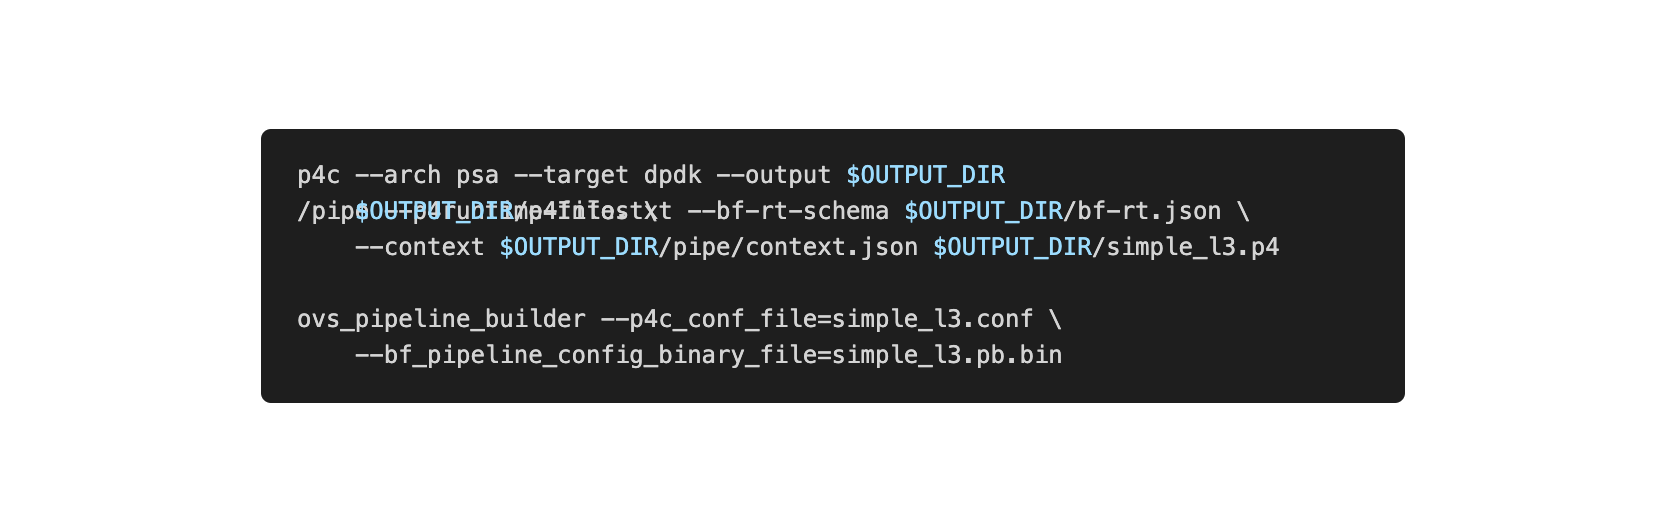
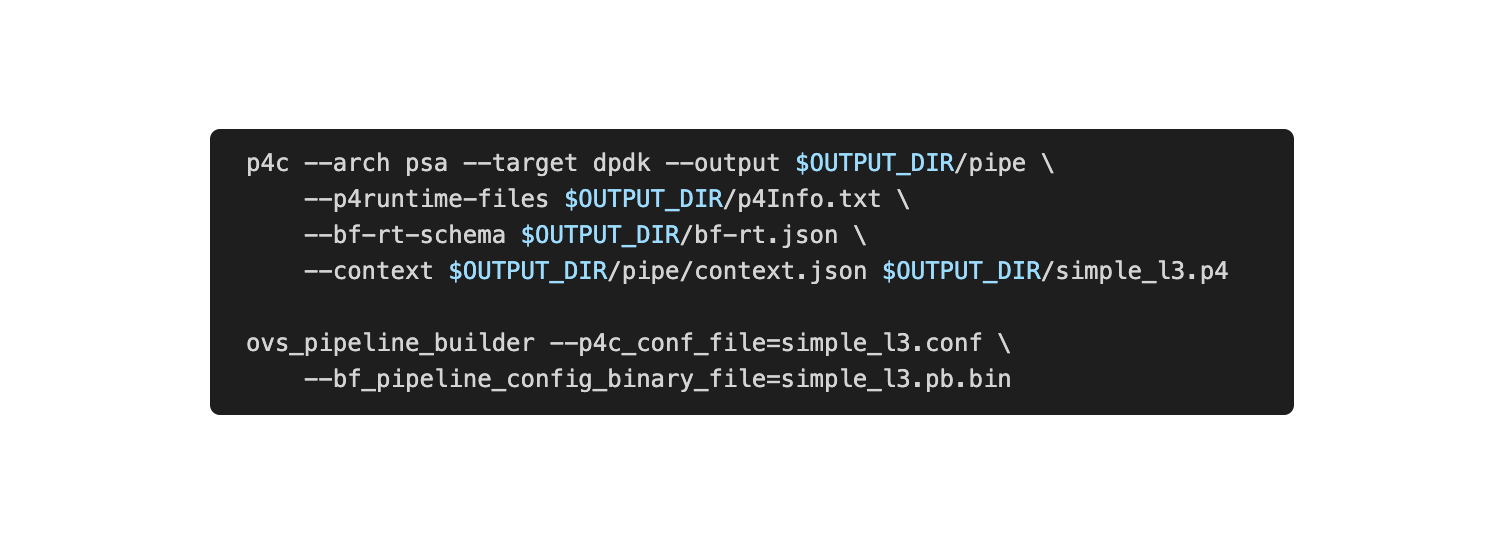
Fixed IPDK guide

Changed region(s): [[0.125, 0.2113, 0.875, 0.7849]]

diff --git a/paper/chapters/ipdk.tex b/paper/chapters/ipdk.tex
@@ -80,24 +80,28 @@ what we can see is that the port is a socket and we can specify the path where t
 The path is important because we must pass it as an argument to our VM in the last step of this demo.
 \subsubsection*{Create two virtual ports}
 \centeredimage{create_ports}{Virtual Ports creation command}
-Now that the Open vSwitch is ready to be used we can compile our program and build the pipeline into OVS.
+Now that the Open vSwitch is ready to be used we can compile our program and build the pipeline defined into the P4 program.
 Assuming that the program folder is located at \emph{/root/examples/simple\_l3} we can run the following commands:
-\centeredimage{build_pipeline}{Compile and pipeline build command}
-
+\centeredimage{build_pipeline}{Compile and build the pipeline command}
 What we've done until now is: 
 \begin{itemize}
     \item Run the Open vSwitch
     \item Create 2 different ports which the Open vSwitch listens on
-    \item Build the P4 program and the pipeline into the Open vSwitch
+    \item Build the P4 program
 \end{itemize}
-The last step is creating two virtual machines and attaching them to the virtual ports.
+\subsubsection*{Create VMs}
+In this step, we will create two virtual machines and attach them to the virtual ports.
 To create the VMs we can use our favorite tool, in this case, we use KVM.
 The command looks as follows:
 \centeredimage{kvm_vm_creation}{KVM VM creation command}
 The command above will create a single VM so we have to run it again referring to the second port's socket and changing some attributes.
+\subsubsection*{Push the pipeline into P4-OVS}
+In the last step, we will push the pipeline into the P4-OVS by using the \emph{ovs-p4ctl}:
+\centeredimage{push_pipeline}{Push pipeline into P4-OVS command}
+This last step makes run the pipeline inside the Open vSwitch so the switch will use our P4 program to take decisions about packet forwarding.
 
 In the demonstration, we avoided the VMs' configuration files to keep it lean but of course, the VMs must have 2 static routes to forward traffic to the right destination
 \centeredimage{routes}{Routes in VM}
-Note that we must add also an entry to the neighbor table since we haven't configured the ARP protocol in Open vSwitch
+Note that we must add also an entry to the neighbor table since we haven't coded the ARP protocol in out P4 program so the switch doesn't know how to handle it.
 \clearpage
 \end{document}
